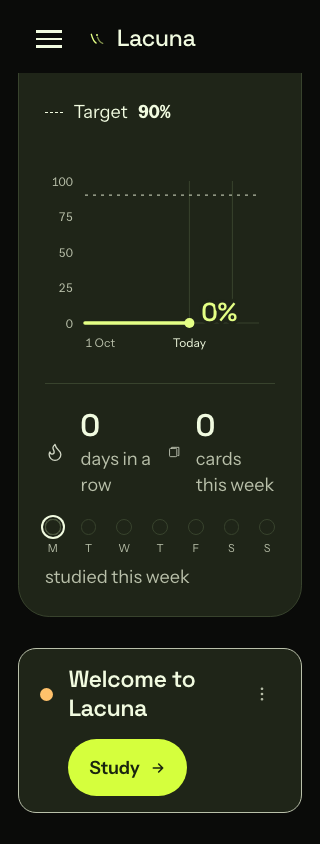
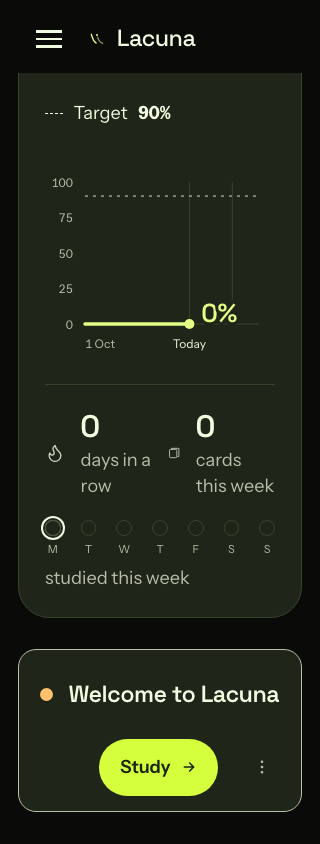
Wrap dashboard controls only when space is constrained
Always stacking the mobile row pushed Study to 863px on an 844px screen at the default text size. Let flex wrapping preserve the compact row while reserving enough title width for enlarged text.

The existing first-screen assertion fails before the fix and passes afterwards. All 14 targeted Chromium cases, scoped lint and the unchanged asset budget pass.

diff --git a/tests/e2e/direction-c-audit.spec.ts b/tests/e2e/direction-c-audit.spec.ts
@@ -247,7 +247,7 @@ test('the course bar stays at the top while a course page scrolls', async ({ pag
   expect(y).toBeLessThanOrEqual(1);
 });
 
-test('Today keeps Study on the first phone screen without a sharing announcement', async ({ page }) => {
+test('Today keeps Study on the first phone screen without a sharing announcement', async ({ page }, testInfo) => {
   await page.setViewportSize({ width: 390, height: 844 });
   await page.emulateMedia({ reducedMotion: 'reduce' });
   await enterFreshLacuna(page);
@@ -258,6 +258,7 @@ test('Today keeps Study on the first phone screen without a sharing announcement
   // The first course's Study is on the first screen.
   const start = (await queue.getByRole('button', { name: /^Study / }).first().boundingBox())!;
   expect(start.y + start.height).toBeLessThanOrEqual(844);
+  await page.screenshot({ path: testInfo.outputPath('today-first-phone-screen.png') });
 });
 
 for (const width of [390, 1280]) {

diff --git a/src/components/dashboard/TodayQueue.css b/src/components/dashboard/TodayQueue.css
@@ -1,17 +1,13 @@
 @media (width < 40rem) {
   .today-course-row {
-    display: grid;
-    grid-template-columns: auto minmax(0, 1fr) auto;
+    flex-wrap: wrap;
   }
 
-  .today-course-row > span:not([aria-hidden]),
+  .today-course-row > button:first-of-type {
+    flex-basis: 8rem;
+  }
+
   .today-course-row > [data-study-trigger] {
-    grid-column: 2;
-    justify-self: start;
-  }
-
-  .today-course-row > [data-course-menu-trigger] {
-    grid-column: 3;
-    grid-row: 1;
+    margin-left: auto;
   }
 }
